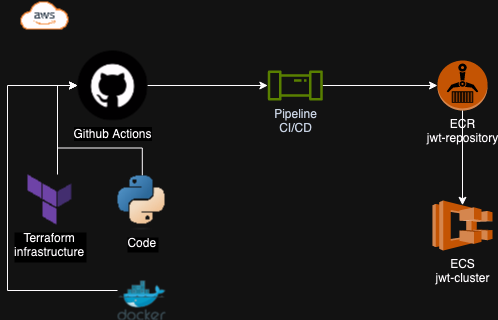
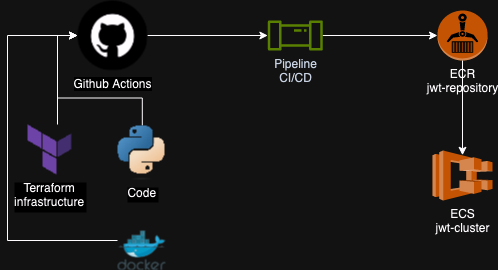
Corrigindo arquitetura

diff --git a/README.md b/README.md
@@ -24,6 +24,6 @@ Este projeto foi desenvolvido utilizando as seguintes tecnologias:
 Python: Utilizado para a lógica de programação e implementação da API.<br>
 Docker: Utilizado para empacotar a aplicação e suas dependências em containers, garantindo a portabilidade e a consistência do ambiente de execução..<br>
 AWS (Amazon Web Services): Utilizado para hospedar e implantar a aplicação na nuvem, aproveitando os serviços de infraestrutura e escalabilidade oferecidos pela AWS..<br>
-Terraform: Utilizado para provisionar e gerenciar a infraestrutura como código na AWS, permitindo uma implantação automatizada e controlada da infraestrutura necessária para executar a aplicação.<br>
+Terraform: Utilizado para provisionar e gerenciar a infraestrutura como código na AWS, permitindo uma implantação automatizada e controlada da infraestrutura necessária para executar a aplicação.<br><br>
 
 ![Arquitetura](img/arquitetura.png)
